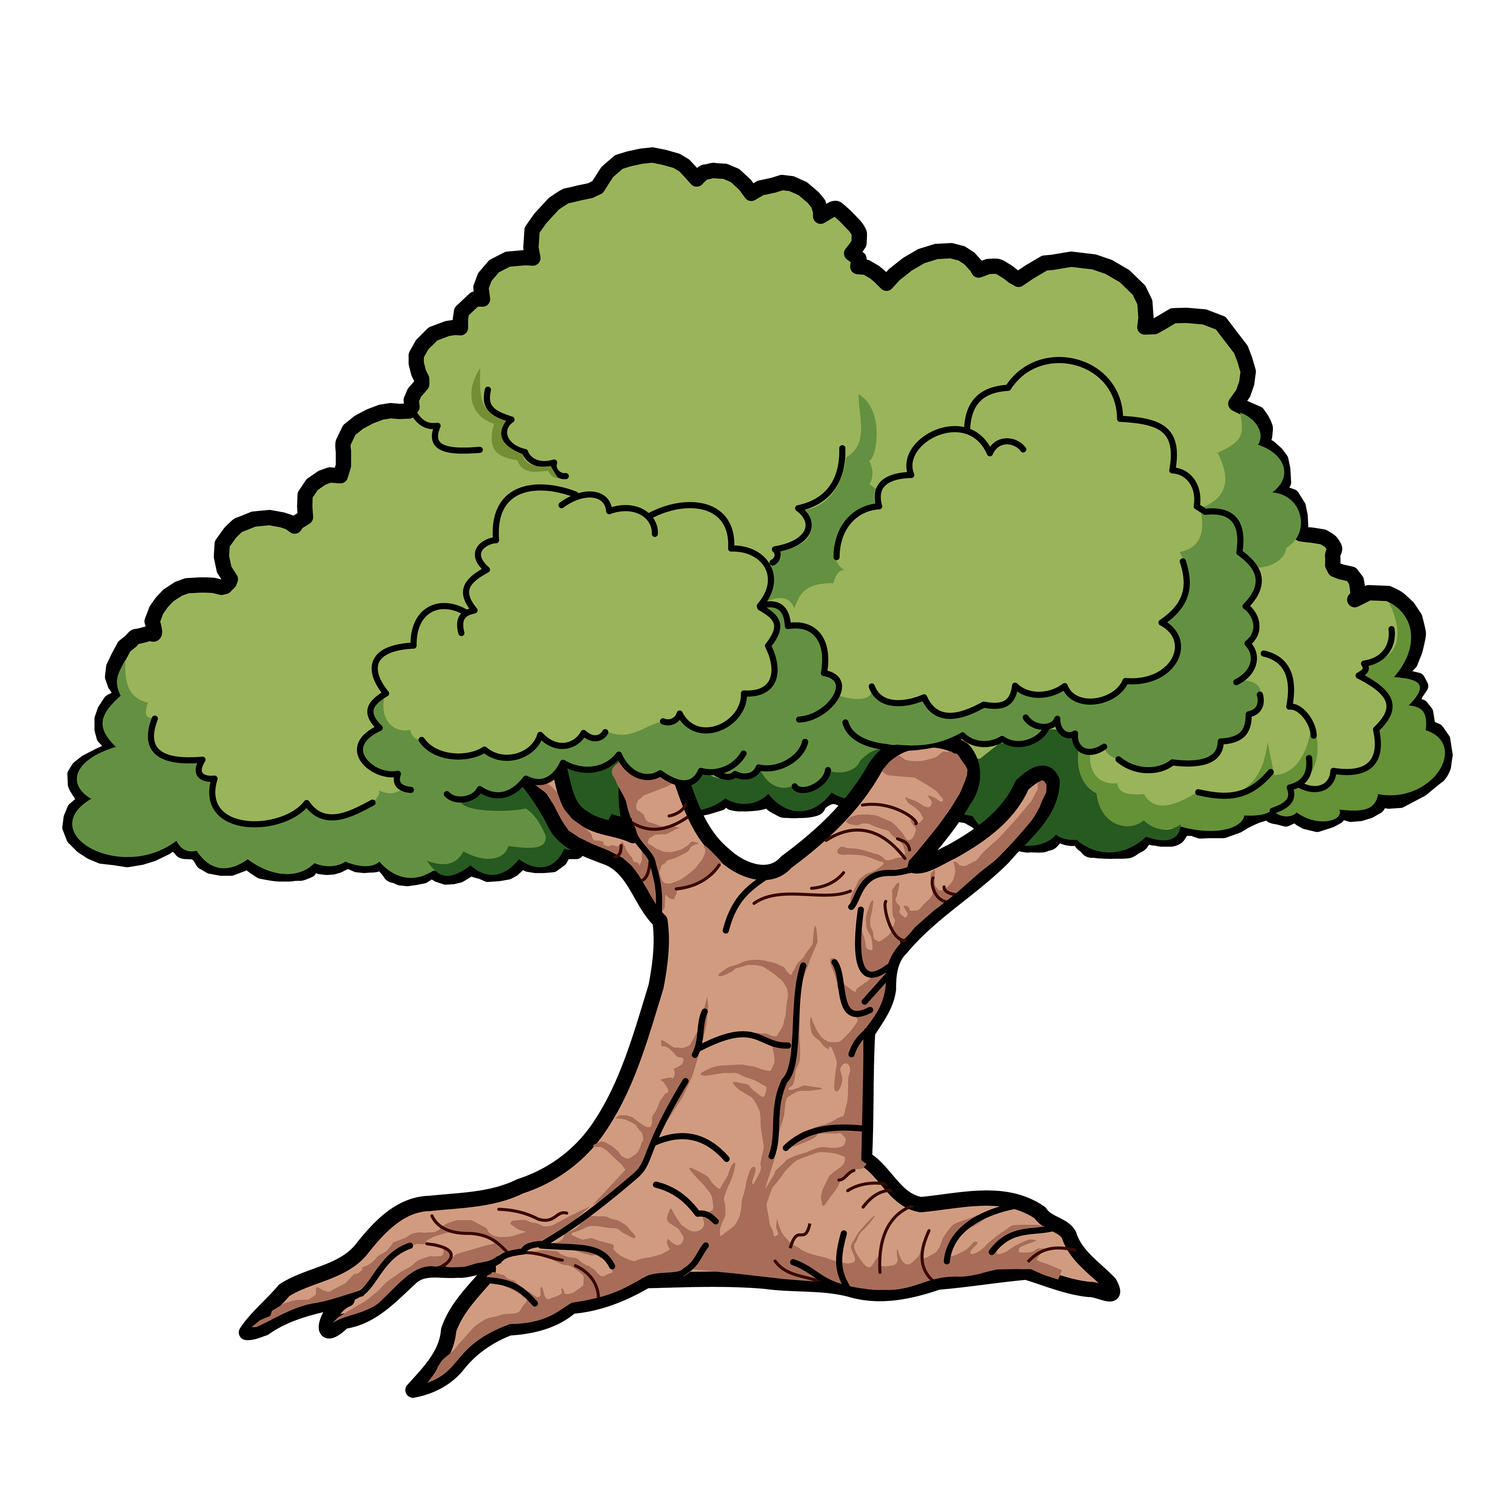
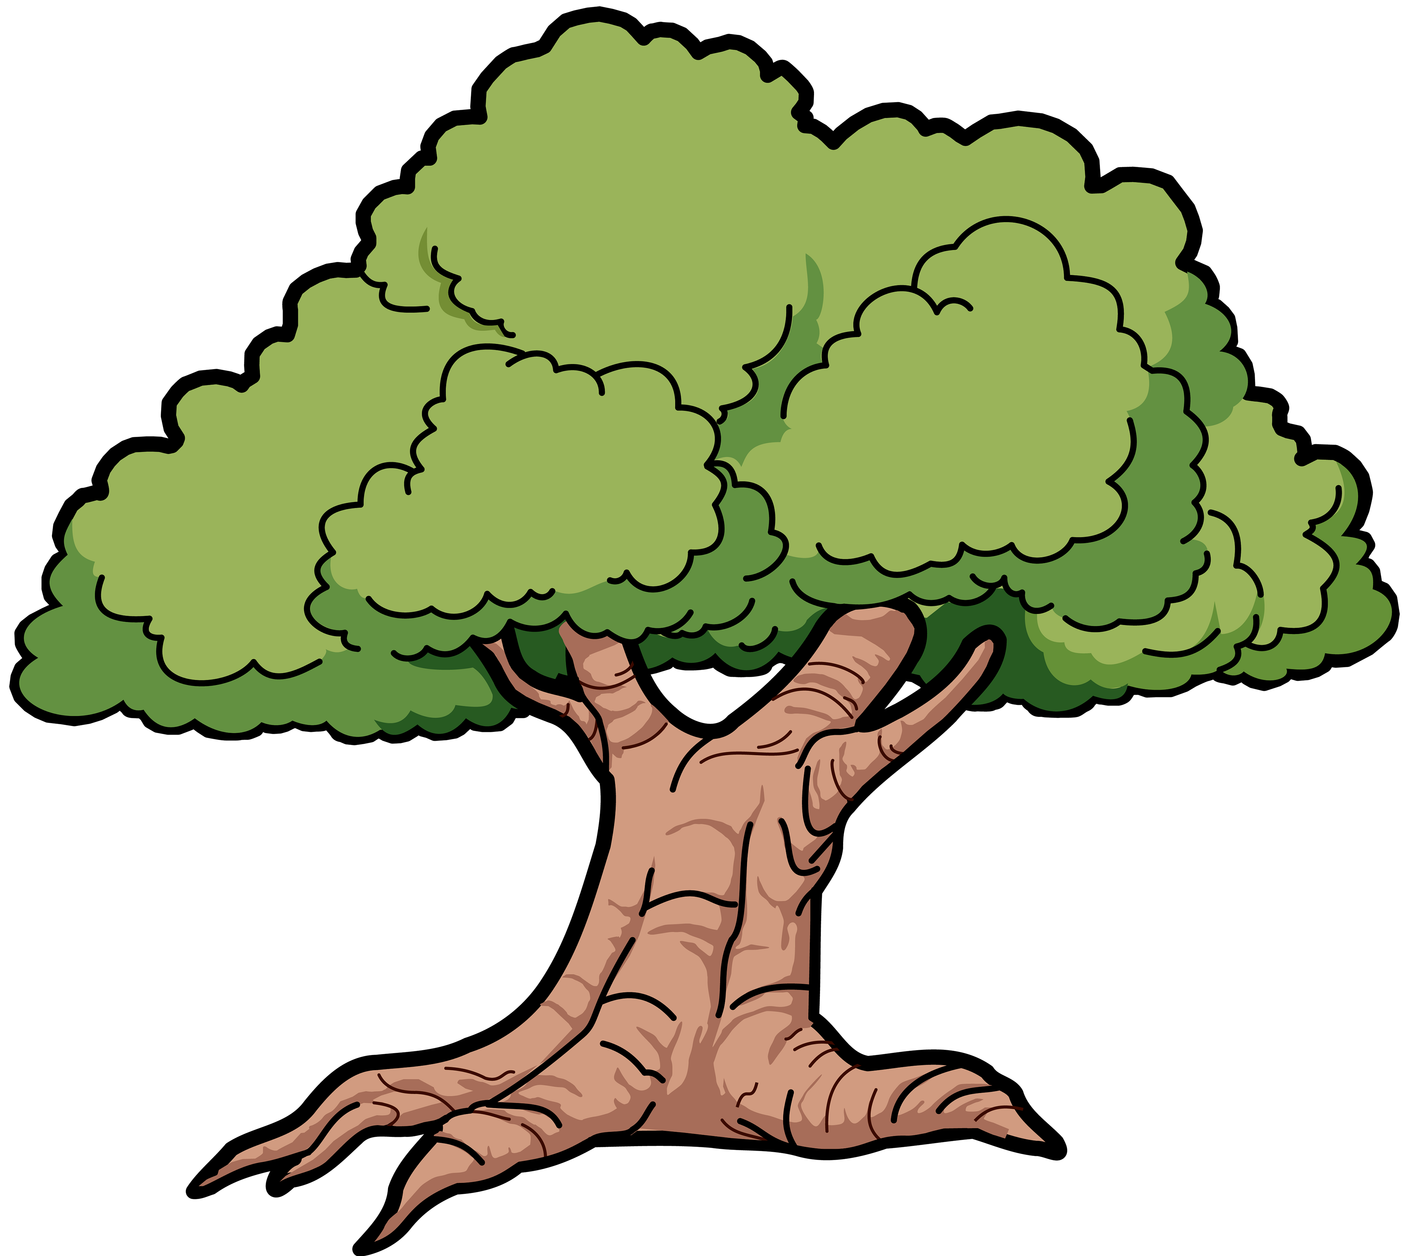
rework défilement decor

Changed region(s): [[0.0, 0.0, 1.0, 1.0], [0.7345, 0.2484, 0.7651, 0.2795]]

diff --git a/lib/background.dart b/lib/background.dart
@@ -33,14 +33,14 @@ class _BackgroundState extends State<Background> {
       if (directionNotifier.value == Direction.toRight) {
         posX += factor;
         if (posX > MediaQuery.of(context).size.width) {
-          print('${MediaQuery.of(context).size.width} / posX');
-          posX = MediaQuery.of(context).size.width * -0.1;
+          posX = -(MediaQuery.of(context).size.width / 2);
+          print('${MediaQuery.of(context).size.width} / $posX');
         }
       }
 
       if (directionNotifier.value == Direction.toLeft) {
         posX -= factor;
-        if (posX < MediaQuery.of(context).size.width * -0.7) {
+        if (posX < -(MediaQuery.of(context).size.width / 2)) {
           posX = MediaQuery.of(context).size.width;
         }
       }
@@ -55,7 +55,7 @@ class _BackgroundState extends State<Background> {
   @override
   void didChangeDependencies() {
     posX = MediaQuery.of(context).size.width;
-    posY = MediaQuery.of(context).size.width * -0.9;
+    //posY = MediaQuery.of(context).size.width * -0.9;
     print('change');
     super.didChangeDependencies();
   }
@@ -83,9 +83,9 @@ class _BackgroundState extends State<Background> {
         ),
         Positioned(
           right: posX,
-          bottom: -50,
+          bottom: -20,
           child: SizedBox(
-            width: MediaQuery.of(context).size.height * 0.5,
+            width: MediaQuery.of(context).size.width / 2,
             child: const Image(
               fit: BoxFit.fitWidth,
               image: AssetImage('assets/arbre.png'),
